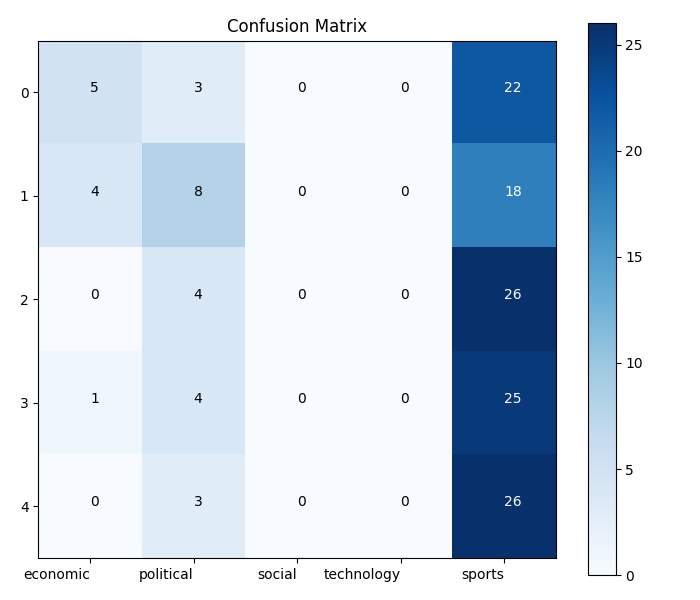
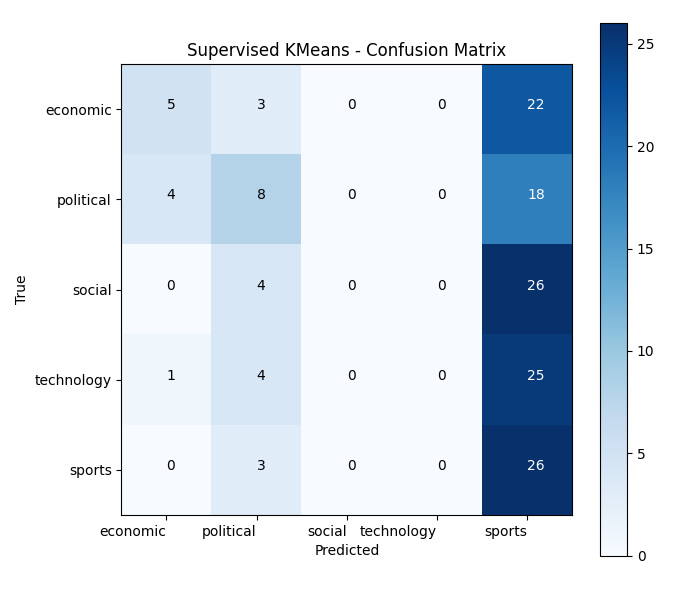
add tfidf and lexical dispersion

diff --git a/lab-4.py b/lab-4.py
@@ -6,7 +6,7 @@ import spacy
 import numpy as np
 import matplotlib.pyplot as plt
 from dotenv import load_dotenv
-from collections import Counter
+from collections import Counter, defaultdict
 from nltk.tokenize import word_tokenize
 from nltk.corpus import stopwords
 from sklearn.feature_extraction.text import TfidfVectorizer, CountVectorizer
@@ -24,6 +24,7 @@ os.makedirs(OUTPUT_DIR, exist_ok=True)
 CSV_FILENAME = "./outputs/l4_articles.csv"
 
 DOMAIN_LABELS  = ["economic", "political", "social", "technology", "sports"]
+DOMAIN_COLORS  = ["#2196F3", "#F44336", "#4CAF50", "#FF9800", "#9C27B0"]
 N_CLUSTERS = 5
 RANDOM_STATE = 42
 
@@ -54,11 +55,23 @@ def main():
         print(f"{dom:<14} {pct:5.1f}% ({correct_i}/{total}) {bar}")
 
     cm = confusion_matrix(ctx["labels"], ctx["preds"], labels=list(range(N_CLUSTERS)))
-    plot_confusion(cm, "./outputs/l4_cm.png")
+    plot_confusion_matrix(cm, "./outputs/l4_cm.png")
 
     print("\nTop terms per cluster")
     print(ctx["top_terms"])
     
+    print(f"\n{SEP}")
+    print("level 2")
+
+    results = frequency_analysis(ctx)
+    print("\nTF-IDF top terms:")
+    print(results["tfidf_by_category"])
+
+    plot_tfidf_bars(results["tfidf_by_category"], "./outputs/l4_tfidf.png")
+
+    plot_lexical_dispersion(results["dispersion_data"], results["top_terms"], len(ctx["article_items"]), "./outputs/l4_lexical_dispersion.png")
+
+
 
 def scrape_newsapi(api_key: str, per_category: int = 15):
     articles = []
@@ -163,6 +176,14 @@ def preprocess(text: str):
     return " ".join(tokens)
 
 
+def get_tokens(text: str):
+    text = filter_text(text)
+    text = normalize_text(text)
+    tokens = tokenize_text(text)
+    tokens = remove_stopwords(tokens)
+    return tokens
+
+
 SEED_WORDS = {
     "economic": ["economy", "finance", "stock", "investment", "gdp", "inflation", "interest", "rate"],
     "political": ["government", "election", "parliament", "senate", "congress", "vote", "democracy", "law"],
@@ -231,10 +252,61 @@ def supervised_cluster(article_items: list[dict]):
         terms = [feat_names[i] for i in order]
         top_terms[dom] = terms
 
-    return {"X": X, "tfidf": tfidf, "labels": label_ids, "cluster_map": cluster_map, "preds": preds_mapped, "texts_pp": texts_pp, "texts_raw": text_raw, "accuracy": acc, "sil": sil, "ari" : ari, "top_terms": top_terms}
+    return {"X": X, 
+            "tfidf": tfidf, 
+            "labels": label_ids, 
+            "cluster_map": cluster_map, 
+            "preds": preds_mapped, 
+            "texts_pp": texts_pp, 
+            "texts_raw": text_raw, 
+            "accuracy": acc, 
+            "sil": sil, 
+            "ari" : ari, 
+            "top_terms": top_terms,
+            "article_items": article_items}
 
 
-def plot_confusion(cm, output_path):
+def frequency_analysis(sup_cl):
+    all_tokens = []
+    for item in sup_cl["article_items"]:
+        all_tokens.extend(get_tokens(item["text"]))
+    
+    by_cat = defaultdict(list)
+    for item in sup_cl["article_items"]:
+        by_cat[item["label"]].append(preprocess(item["text"]))
+ 
+    cat_tfidf_results = {}
+    for cat, docs in by_cat.items():
+        tv = TfidfVectorizer(max_features=500, ngram_range=(1,1), min_df=1)
+        M = tv.fit_transform(docs)
+        scores = np.array(M.sum(axis=0)).flatten()
+        order = scores.argsort()[::-1][:15]
+        terms = [(tv.get_feature_names_out()[i], float(scores[i])) for i in order]
+        cat_tfidf_results[cat] = terms
+        print(f" {cat:<14}: {', '.join(t for t,_ in terms[:8])}")
+
+
+    freq = Counter(all_tokens)
+    top8 = [w for w, _ in freq.most_common(8)]
+    disp_data = {w: [] for w in top8}
+    for i, item in enumerate(sup_cl["article_items"]):
+        toks = get_tokens(item["text"])
+        for w in top8:
+            disp_data[w].extend([i + pos/max(len(toks),1) for pos, t in enumerate(toks) if t == w])
+    
+    for w, positions in disp_data.items():
+        print(f" {w:<18} - {len(positions):4d} входжень")
+
+
+
+    return {
+        "tfidf_by_category": cat_tfidf_results,
+        "dispersion_data" : disp_data,
+        "top_terms" : top8
+    }
+
+
+def plot_confusion_matrix(cm, output_path):
     fig, ax = plt.subplots(figsize=(7,6))
     im = ax.imshow(cm, cmap="Blues", interpolation="nearest")
     plt.colorbar(im, ax=ax)
@@ -242,18 +314,66 @@ def plot_confusion(cm, output_path):
     ax.set_xticks(range(N_CLUSTERS))
     ax.set_yticks(range(N_CLUSTERS))
     ax.set_xticklabels(DOMAIN_LABELS, ha="right")
-    ax.set_xticklabels(DOMAIN_LABELS)
+    ax.set_yticklabels(DOMAIN_LABELS)
 
     for i in range(N_CLUSTERS):
         for j in range(N_CLUSTERS):
             ax.text(j, i, str(cm[i, j]), color="white" if cm[i, j] > cm.max() / 2 else "black")
 
-    title = "Confusion Matrix"
+    title = "Supervised KMeans - Confusion Matrix"
     ax.set_title(title)
+    ax.set_xlabel("Predicted")
+    ax.set_ylabel("True")
 
     plt.tight_layout()
     plt.savefig(output_path)
     plt.show()
+    print(f"{title} saved to: {output_path}")
+
+
+def plot_tfidf_bars(cat_results: dict, output_path):
+    fig, axes = plt.subplots(1, len(cat_results), figsize=(4*len(cat_results), 5), sharey=False)
+    
+    if len(cat_results) == 1:
+        axes = [axes]
+    
+    for ax, (cat, terms) in zip(axes, cat_results.items()):
+        ws = [t for t, _ in terms[:10]]
+        sc = [s for _, s in terms[:10]]
+        colors = plt.cm.RdYlGn(np.linspace(0.3, 0.9, len(ws)))
+        
+        ax.barh(list(reversed(ws)), list(reversed(sc)), color=list(reversed(colors)))
+        ax.set_title(cat, fontsize=10)
+        ax.set_xlabel("TF-IDF score")
+    
+    title = "TF-IDF top-10 by category"
+    fig.subtitle(title)
+    
+    plt.tight_layout()
+    plt.savefig(output_path)
+    plt.show()
+    print(f"{title} saved to: {output_path}")
+
+
+def plot_lexical_dispersion(disp_data: dict, words: list, n_docs: int, output_path):
+    fig, ax = plt.subplots(figsize=(12, 5))
+
+    for idx, w in enumerate(words):
+        positions = disp_data[w]
+        ax.scatter(positions, [idx]*len(positions), marker="|", s=50, color=DOMAIN_COLORS[idx % len(DOMAIN_COLORS)], alpha=0.7)
+    
+    ax.set_yticks(range(len(words)))
+    ax.set_yticklabels(words, fontsize=10)
+    ax.set_xlabel("Позиція (документ)", fontsize=11)
+    
+    title = "Lexical Dispersion"
+    ax.set_title(title)
+    ax.set_xlim(0, n_docs)
+
+    plt.tight_layout()
+    plt.savefig(output_path)
+    plt.show()
+    print(f"{title} saved to: {output_path}")
 
 
 if __name__ == "__main__":
